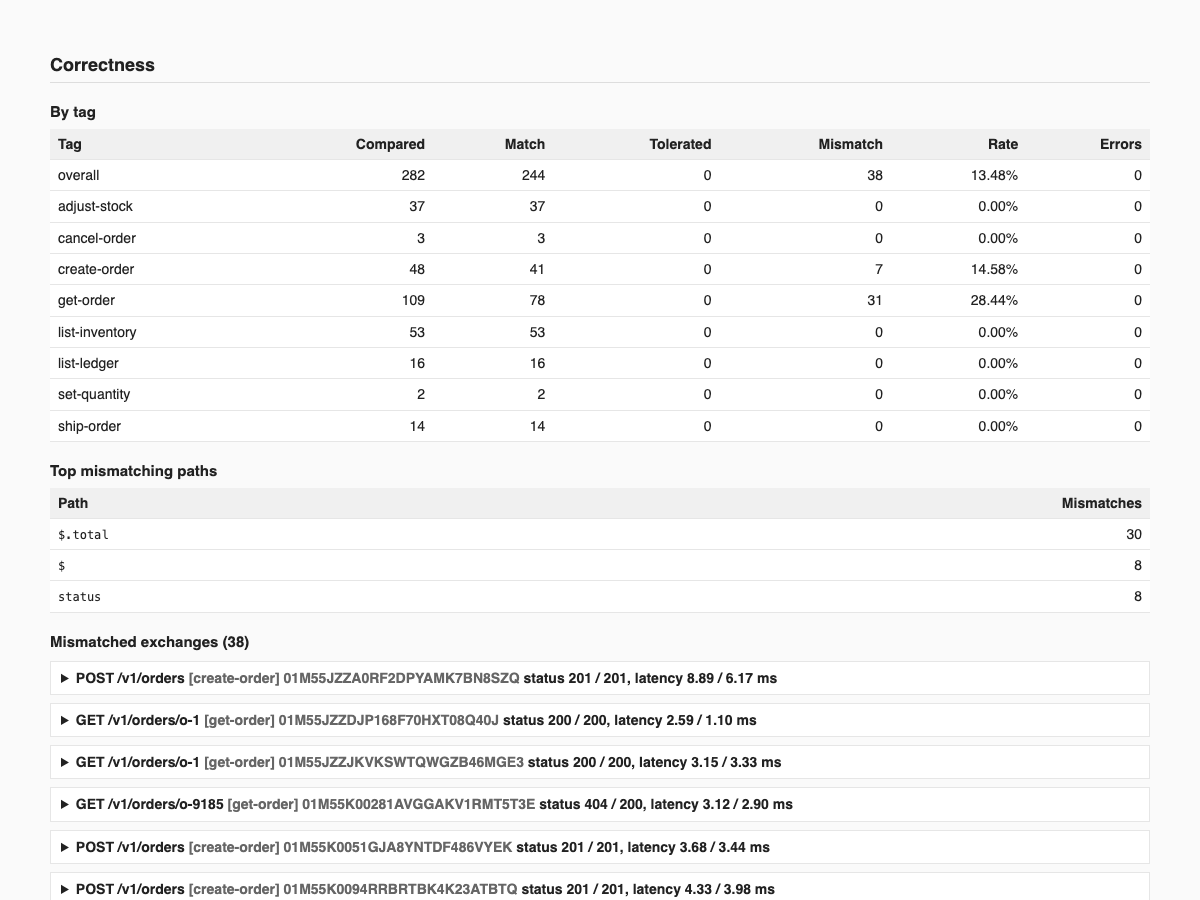
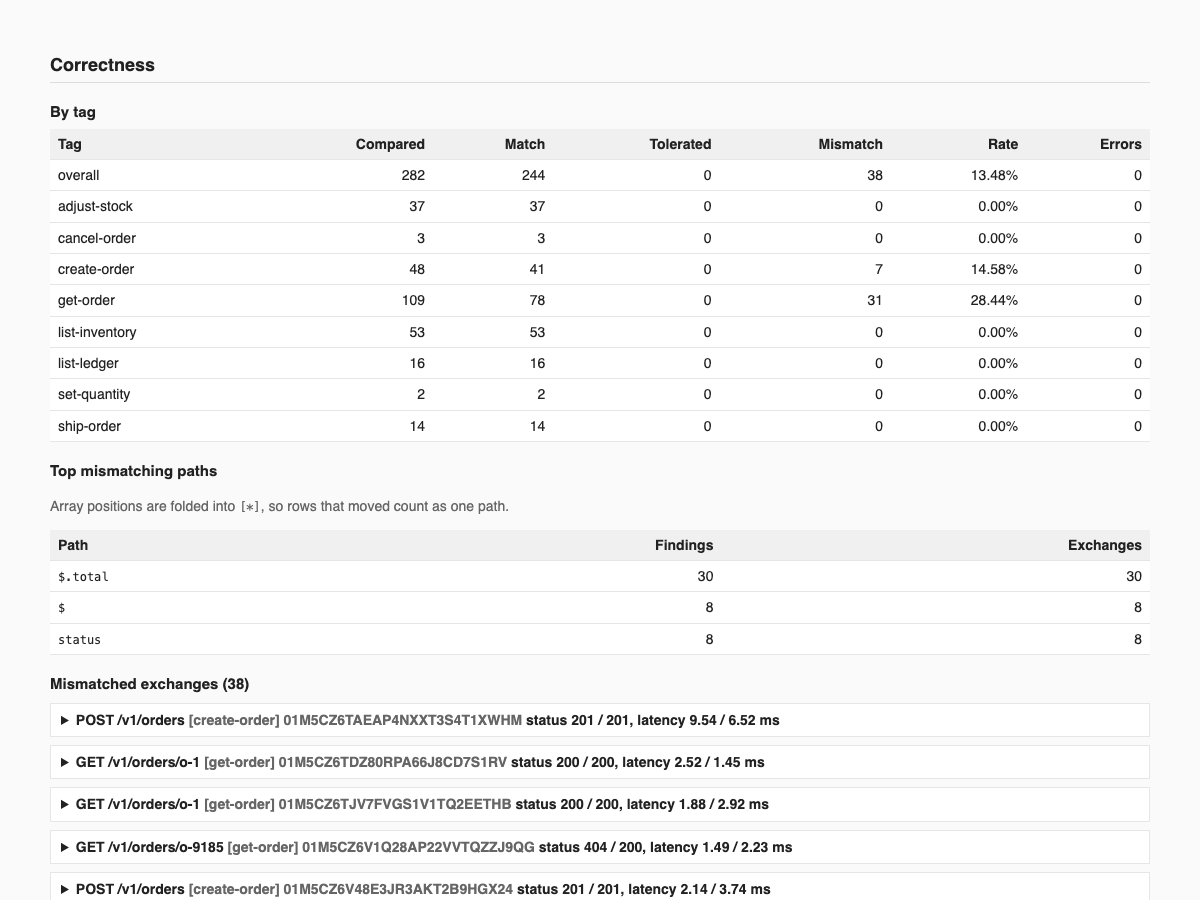
docs: refresh the demo run, the agent transcript, and the screenshots
The transcript section shows the run after the deferred items: prompt caching
wrote 2823 tokens in round 1 and read them back in round 2, the model set
repeat to 50 on a stock adjustment on its own and caught the p99 tail, and the
second inventory case was folded into the first. The screenshots show the
grouped top paths table and the run count under the steps.

Claude-Session: https://claude.ai/code/session_01ERbsfuBHiqZvzpXS3SrLL6

diff --git a/docs/agent-loop.md b/docs/agent-loop.md
@@ -22,65 +22,69 @@ The round prompt puts the run summary, the request shapes, and the redacted head
 
 ## A real transcript
 
-From `make demo` on 2026-10-17, against the classic candidate with the four planted divergences, after the first replay. Model `claude-sonnet-5-5`, effort `medium`, two rounds, eight cases per round, two dollar budget. Prompt versions `system.md e08fe4717b9d` and `round.md adcf42890db5`. The full file is `demo/out/agent-transcript.json` after a run.
+From `make demo` on 2026-10-20, against the classic candidate with the four planted divergences, after the first replay. Model `claude-sonnet-5-5`, effort `medium`, two rounds, eight cases per round, two dollar budget. Prompt versions `system.md a67c9bf802c2` and `round.md 6be6f15093c7`. The full file is `demo/out/agent-transcript.json` after a run.
 
 ### Round 1
 
-The round prompt was 4270 characters. Its summary began like this.
+The round prompt was 4269 characters. Its summary began like this.
 
 ```
+## Run summary
+
 Verdict: fail.
-Threshold rows that did not pass: latency.by_tag.adjust-stock.p99_ms (fail, limit 40, measured 73.343); correctness.mismatch_rate_max (fail, limit 0, measured 0.321555); ...
+Threshold rows that did not pass: latency.by_tag.adjust-stock.p99_ms (fail, limit 40, measured 66.879); correctness.mismatch_rate_max (fail, limit 0, measured 0.322695); ...
 Mismatches by tag: create-order: 7 of 48 mismatch, 0 errors; get-order: 31 of 109 mismatch, 0 errors; list-inventory: 53 of 53 mismatch, 0 errors.
 Mismatching paths: $.items[*].name (530), $.items[*].sku (530), $.items[*].unit_price (530), $.items[*].on_hand (499), $.total (30), status (8), $ (8).
 Sample of mismatched exchanges:
 - POST /v1/orders [create-order] status 201 vs 201: $.total 29.99 vs 29.98
+- GET /v1/orders/o-1 [get-order] status 200 vs 200: $.total 29.99 vs 29.98
 - GET /v1/inventory [list-inventory] status 200 vs 200: $.items[0].name "Hex bolt M8" vs "Bracket L"; $.items[0].on_hand 497 vs 500; $.items[0].sku "A-100" vs "C-300"
-- GET /v1/orders/o-9185 [get-order] status 404 vs 200: status 404 vs 200; $ {"error":"not_found"} vs absent
 ```
 
-The model answered with eight cases. 2710 input tokens, 1037 output tokens, $0.0158.
+The model answered with eight cases. 54 fresh input tokens, 2823 tokens written to the cache, 1130 output tokens, $0.0185.
 
-| Case | Tag            | Hypothesis                                                                                                                                | Steps                                                                    | Result                                     |
-| ---- | -------------- | ----------------------------------------------------------------------------------------------------------------------------------------- | ------------------------------------------------------------------------ | ------------------------------------------ |
-| 1-1  | create-order   | Order total differs by a cent due to rounding; a quantity of 3 of A-100 likely exposes a different rounding or price calculation.         | `POST /v1/orders {"sku":"A-100","qty":3}`                                | kept: `$.total` 29.99 against 29.98        |
-| 1-2  | create-order   | Quantity 1 gives the unit price total directly, showing whether the mismatch comes from the price itself or from multiplication rounding. | `POST /v1/orders {"sku":"A-100","qty":1}`                                | no difference                              |
-| 1-3  | create-order   | A large quantity amplifies the rounding or float multiplication difference in total.                                                      | `POST /v1/orders {"sku":"A-100","qty":1000}`                             | no difference                              |
-| 1-4  | get-order      | Fetching a just-created order shows whether the total differs at read time or only at creation.                                           | create B-200 x7, capture `oid`, then `GET /v1/orders/{{oid}}`            | no difference                              |
-| 1-5  | get-order      | A nonexistent order id returns 404 on one system and 200 on the other, as seen with o-9185.                                               | `GET /v1/orders/o-9185`                                                  | kept: status 404 against 200, body missing |
-| 1-6  | get-order      | A malformed order id may be handled differently.                                                                                          | `GET /v1/orders/does-not-exist`                                          | same key as 1-5                            |
-| 1-7  | list-inventory | Inventory listing order differs, so a plain list exposes different sort order and stock levels.                                           | `GET /v1/inventory`                                                      | kept: every row differs by position        |
-| 1-8  | list-inventory | Adjusting stock then listing inventory shows whether on_hand updates diverge after a mutation.                                            | `POST /v1/inventory/C-300/adjust {"delta":-5}`, then `GET /v1/inventory` | kept: the same rows plus `on_hand`         |
+| Case | Tag            | Hypothesis                                                                                                                           | Steps                                                                    | Result                                                       |
+| ---- | -------------- | ------------------------------------------------------------------------------------------------------------------------------------ | ------------------------------------------------------------------------ | ------------------------------------------------------------ |
+| 1-1  | create-order   | Total is off by one cent on the candidate, likely a rounding or float truncation difference; a fractional cent total will expose it. | `POST /v1/orders {"sku":"A-100","qty":3}`                                | kept: `$.total` 29.99 against 29.98                          |
+| 1-2  | create-order   | Total rounding differs on larger quantities, so qty 7 of a different sku shows a different cent error pattern.                       | `POST /v1/orders {"sku":"C-300","qty":7}`                                | no difference                                                |
+| 1-3  | get-order      | Reading back a created order returns a total that differs by a cent, showing the rounding is also applied on read or stored.         | create A-100 x1, capture `oid`, then `GET /v1/orders/{{oid}}`            | no difference                                                |
+| 1-4  | get-order      | A nonexistent order id returns 404 on the reference but the candidate returns 200, suggesting a differing existence check.           | `GET /v1/orders/o-999999`                                                | kept: status 404 against 200, body missing                   |
+| 1-5  | list-inventory | The inventory listing is ordered differently and on_hand differs, so the sort order or stock state diverges.                         | `GET /v1/inventory`                                                      | kept: every row differs by position, key `$.items[*]`        |
+| 1-6  | list-inventory | After a stock adjustment the listing's on_hand differs because the candidate applies adjustments differently or reads stale stock.   | `POST /v1/inventory/C-300/adjust {"delta":-5}`, then `GET /v1/inventory` | same key as 1-5                                              |
+| 1-7  | adjust-stock   | The adjust-stock endpoint has a latency tail on the candidate (p99 66 ms against a 40 ms limit), visible only over many repeats.     | `POST /v1/inventory/C-300/adjust {"delta":1}`, `repeat` 50               | kept: candidate p99 over 50 runs 71.49 ms, reference 0.98 ms |
+| 1-8  | create-order   | An unknown sku or an oversized quantity yields a different status or error body because validation differs.                          | `POST /v1/orders {"sku":"Z-999","qty":100000}`                           | no difference                                                |
 
 ### Round 2
 
-The round prompt grew to 6305 characters because it now listed the four kept cases. The model answered with eight cases. 3716 input tokens, 1094 output tokens, $0.0184. One case was dropped before execution because it carried an extra key, `note`, that the schema does not allow. None of the other seven revealed anything new, so the loop stopped with `no_new_cases`.
+The round prompt grew to 5023 characters because it now listed the four kept cases below the cache boundary. The model answered with eight cases. 347 fresh input tokens, 2823 tokens read from the cache, 1494 output tokens, $0.0162. None of the eight revealed anything new, so the loop stopped with `no_new_cases`.
 
-| Case | Tag          | Hypothesis                                                                                         | Steps                                               | Result                         |
-| ---- | ------------ | -------------------------------------------------------------------------------------------------- | --------------------------------------------------- | ------------------------------ |
-| 2-1  | cancel-order | Cancelling an existing order exposes differences in canceled_at, remaining and total fields.       | create, capture, cancel                             | no difference                  |
-| 2-2  | ship-order   | Shipping more than ordered quantity may be validated differently.                                  | create x2, capture, ship 5                          | no difference, both answer 409 |
-| 2-3  | create-order | Ordering a quantity of 1 of a different SKU may reveal price calculation differences beyond A-100. | `POST /v1/orders {"sku":"C-300","qty":7}`           | no difference                  |
-| 2-4  | create-order | Ordering an unknown SKU may return different error status or body.                                 | `POST /v1/orders {"sku":"Z-999","qty":1}`           | no difference, both answer 404 |
-| 2-5  | create-order | Zero or negative quantity validation may differ between systems.                                   | `POST /v1/orders {"sku":"A-100","qty":0}`           | no difference, both answer 400 |
-| 2-6  | set-quantity | Setting an order quantity to a large value may produce different 409 handling and totals.          | create, capture, set quantity 1000                  | no difference                  |
-| 2-7  | adjust-stock | Adjusting stock by a large negative delta may be allowed on one system and rejected on the other.  | `POST /v1/inventory/C-300/adjust {"delta":-100000}` | no difference, both answer 409 |
+| Case | Tag          | Hypothesis                                                                                                                     | Steps                                                   | Result          |
+| ---- | ------------ | ------------------------------------------------------------------------------------------------------------------------------ | ------------------------------------------------------- | --------------- |
+| 2-1  | cancel-order | Cancel may differ in total, remaining, or canceled fields, since totals already differ by a cent and cancel returns the order. | create A-100 x3, capture, cancel                        | same key as 1-1 |
+| 2-2  | ship-order   | Shipping more than the ordered quantity is validated differently or yields different remaining values.                         | create A-100 x2, capture, ship 5                        | no difference   |
+| 2-3  | set-quantity | Setting an order quantity to zero or a lower value is handled differently between systems.                                     | create B-200 x5, capture, set quantity 0                | no difference   |
+| 2-4  | create-order | Creating an order for a nonexistent SKU or with qty 0 returns a different status or error body.                                | `POST /v1/orders {"sku":"ZZ-999","qty":0}`              | no difference   |
+| 2-5  | list-ledger  | Ledger receivables likely reflect the rounding difference and stock_on_hand differs after an order is created.                 | create C-300 x7, then `GET /v1/ledger`                  | no difference   |
+| 2-6  | adjust-stock | Adjusting stock with a large negative delta or on an unknown SKU is validated differently.                                     | `POST /v1/inventory/C-300/adjust {"delta":-100000}`     | no difference   |
+| 2-7  | get-order    | Shipping a created order partially then reading it shows differing shipped, remaining, or status values.                       | create A-100 x4, capture, ship 1, then `GET /v1/orders` | no difference   |
+| 2-8  | create-order | A large quantity order produces a different total due to float rounding at scale.                                              | `POST /v1/orders {"sku":"B-200","qty":999}`             | no difference   |
 
-Totals: 16 proposed, 15 valid, 15 executed, 4 kept, 6426 input tokens, 2131 output tokens, $0.0342 of $2.00.
+Totals: 16 proposed, 16 valid, 16 executed, 4 kept, 401 fresh input tokens, 2823 tokens written to the cache and 2823 read back, 2624 output tokens, $0.0347 of $2.00.
 
 ## What the agent is good at
 
 - It turns a mismatching path into a one request reproduction. The three divergences that a single request can reach, the half cent rounding, the unknown id, and the inventory ordering, were each reproduced in the first round by a case the model wrote from the summary alone.
+- It uses `repeat` where it belongs. Told that latency limits are judged on the percentiles of a sample, it set `repeat` to 50 on the one tag whose p99 row had failed, left it at 1 everywhere else, and the case caught a p99 of 71.49 ms against the 40 ms limit, which no single run could show.
 - It writes multi step cases correctly. Every create then act sequence captured the order id and reused it, and the per system resolution of captures kept the two ids out of the diff.
 - It explores validation edges that the recording never exercised: zero quantity, unknown SKU, over shipment, an oversize negative adjustment. In this demo the two systems agree on all of them, which is itself information.
 - It is cheap. Two rounds cost three and a half cents and took a few seconds beyond the model's own latency.
 
 ## Where it is noisy
 
-- It cannot reach the latency divergence. The candidate delays five percent of `adjust-stock` calls, so a single request has one chance in twenty to breach, and the model's adjust cases were about validation rather than timing. A latency case needs volume, which the replay provides and the agent does not.
-- The dedupe key was once the exact set of paths, so cases 1-7 and 1-8 in the run above, which both show the inventory ordering divergence on different fields of the same rows, were both kept. The key now folds array positions and cuts a path inside an array at the row, so the second of two such cases is dropped as the same finding.
-- The agent's own cases mutate both systems. A stock adjustment or a create in one case changes what the next case sees, and the two systems drift apart when a case lands differently on them. In this run the inventory read in case 1-8 showed `on_hand` 508 against 503 for the SKU an earlier case had adjusted. Stateful side effects are the price of exploring mutations, and the report labels every kept case with the round it ran in.
-- Hypotheses are plausible but not grounded. The model wrote that the candidate "truncates rather than rounds" and that the two systems might "go negative" on stock. Neither is true. The harness keeps only what actually differed, so a wrong hypothesis costs one request and nothing else.
+- Volume costs time and stops at 50. The 50 run case sent fifty requests to each system one after another. A tail that fires on one call in a thousand needs more runs than the cap allows, and the replay, with hundreds of recorded calls per tag, remains the better instrument for that.
+- The dedupe key folds array positions and cuts a path inside an array at the row. Case 1-6, a stock adjustment followed by a listing, was dropped as the same finding as 1-5 for that reason, where the first real run, before the fold, kept both. The other side of that coin is that a divergence on one field of the rows, such as a per row price, would merge with an ordering divergence on the same array.
+- The agent's own cases mutate both systems. A stock adjustment or a create in one case changes what the next case sees, and the two systems drift apart when a case lands differently on them. In this run cases 1-6 and 1-7 adjusted the stock of C-300 fifty one times on each system before case 2-5 read the ledger, and the ledger still matched only because every case had landed the same way on both systems. Stateful side effects are the price of exploring mutations, and the report labels every kept case with the round it ran in.
+- Hypotheses are plausible but not grounded. The model wrote that the candidate might have a "float truncation difference" and might "read stale stock". Neither is what the candidate does. The harness keeps only what actually differed, so a wrong hypothesis costs one request and nothing else.
 - The schema is strict on purpose. A case with an extra key is dropped rather than repaired, and the drop and its reason are in the transcript.
 - Order ids line up here because both systems took the same traffic first. Against two systems in different states a single step create differs on `$.order_id` as well, and the mismatch key carries that path. The substitution rules handle this for replays and the capture mechanism handles it inside multi step cases, but a single step case has nothing to substitute.
 

diff --git a/CHANGELOG.md b/CHANGELOG.md
@@ -12,6 +12,7 @@ All notable changes to this repository are recorded here. The format follows Kee
 - Agent dedupe granularity. A mismatch now keys on the untolerated paths with array positions folded into `[*]` and a path inside an array cut at the row, so a divergence that moves rows around counts once however many fields differ or rows it touches, while two top level fields stay two findings. Cases 1-7 and 1-8 of the first real run would merge under this key. The system prompt tells the model the same rule.
 - Prompt caching. The round prompt now puts everything that changes between rounds, the kept cases and the round line, under the `## Cases already kept` heading, so the run summary, the request shapes, and the redacted header names above it are identical across the rounds of one loop. `ModelRequest` gains `cachePrefixLength`, the length of that stable prefix, and the Anthropic client sends the system prompt and the stable prefix as text blocks with `cache_control: ephemeral` breakpoints. Rounds after the first read the stable part from the cache at one tenth of the input price once it is long enough to cache. The log line per round shows the tokens read from and written to the cache, which the transcript and the run already record. Tests check the request shape with and without a prefix, that no round placeholder sits above the heading, and that the prefix is byte for byte identical between two rounds of the loop.
 - Latency cases carry volume. A generated case may set `repeat` from 1 to 50 (default 1). The harness then runs the whole case that many times on each system, one run after another, keeps the first run's responses for the diff, and summarizes the final step latencies of every run by exact nearest rank percentiles, a new `exactSummary` in core. The latency limits are judged on those percentiles, so a breach reads `candidate p90 over 10 runs was 41.3 ms, over the adjust-stock p90_ms limit of 20 ms`, and a single run is still its own every percentile. A kept case records `repeat` and `latency` with both sides' summaries. The system prompt describes the field and says to use it only for a latency hypothesis. The report lists the run count under the steps. Tests cover the percentile helper, the breach selection on a sample, schema bounds for `repeat`, and a loop against two stand in servers where the single run case shows nothing and the ten run case catches a delay that fires on every second call.
+- Verification after the six items. `make check` passes with 49 test files and 390 tests, one skipped without `REDIS_URL`, and CI runs that one too. `make demo` on this machine took 1 minute 37 seconds with the agent and produced the same verdicts as before: the classic candidate fails on the four divergences, the unordered rules tolerate the ordering, the clean pair passes with ten invariants holding on both sides, and the seeded defect fails on invariants 1, 5, and 6 with a four step reduced reproduction in 13 attempts. The correctness section now shows the inventory divergence as four grouped rows (`$.items[*].name`, `sku`, `unit_price`, and `on_hand`, 530 or 499 findings in 53 exchanges each) instead of hundreds of indexed paths. The real agent run with `claude-sonnet-5-5`: 16 proposed, 16 valid, 16 executed, 4 kept, stopped on `no_new_cases`, $0.0347 of $2.00. Round 1 wrote 2823 tokens to the cache and round 2 read all 2823 back, paying for 347 fresh input tokens. The model set `repeat` to 50 on a stock adjustment without being asked to and the case caught the candidate's p99 of 71.49 ms against the 40 ms limit, a finding no single run could show. Its second inventory case was dropped as the same finding under the folded key, where the first run kept two. The transcript is in `docs/agent-loop.md` and the screenshots in `docs/images` are regenerated.
 
 ### Step 9: docs, README, CI, and the OMS mapping (Addendum A5)
 

diff --git a/README.md b/README.md
@@ -60,7 +60,7 @@ The candidate service is derived from the reference and differs only at marked l
 
 ## The agent
 
-`rp agent` summarizes the run and the recording's request shapes, asks a model for new cases as JSON, validates them, sends each to the reference and the candidate, and keeps the ones that reveal a mismatch path set or a latency breach no kept case already reveals. It stops when a round adds nothing, when the next call could cross the budget, or at the round limit, and it prints the tokens and dollars it spent. In the demo run it reproduced the rounding, the unknown id, and the ordering divergences from the summary alone in the first round, for three and a half cents over two rounds. `docs/agent-loop.md` explains the loop, shows the real transcript, and says where the agent is noisy. Without a key the command prints a message and exits 0.
+`rp agent` summarizes the run and the recording's request shapes, asks a model for new cases as JSON, validates them, sends each to the reference and the candidate, and keeps the ones that reveal a mismatch path set or a latency breach no kept case already reveals. It stops when a round adds nothing, when the next call could cross the budget, or at the round limit, and it prints the tokens and dollars it spent. In the demo run it reproduced the rounding, the unknown id, and the ordering divergences from the summary alone in the first round, and on its own set `repeat` to 50 on a stock adjustment to show the candidate's p99 tail, for three and a half cents over two rounds with the second round read from the prompt cache. `docs/agent-loop.md` explains the loop, shows the real transcript, and says where the agent is noisy. Without a key the command prints a message and exits 0.
 
 ## Measured
 
@@ -70,7 +70,7 @@ Apple M4 Max, 16 cores, 64 GB, Docker Desktop 29.4.1 with a linux/aarch64 engine
 | ----------------- | -------------------- | ------------------------------------------------------------------------------------------------------------------------------------------------------------------------------------------------------------------------------------------------------------------------------------------ |
 | Capture overhead  | `make bench-capture` | p50 0.26 to 0.31 ms direct against 0.54 to 0.59 ms through the proxy: 0.28 ms of overhead at p50 and 1.06 ms at p99, over 5000 requests at concurrency 8 after 500 warmup, two passes each.                                                                                                |
 | Replay throughput | `make bench-replay`  | 2600 to 3200 requests per second against the clean candidate at `max` pacing and concurrency 8 over the committed recording, with zero mismatches. The recording is sequential and the engine keeps that order, so the rate is bounded by the candidate's latency rather than by the pool. |
-| Demo wall time    | `make demo`          | 1 minute 25 seconds without the agent and 1 minute 39 seconds with it, images already built.                                                                                                                                                                                               |
+| Demo wall time    | `make demo`          | 1 minute 25 seconds without the agent and 1 minute 37 seconds with it, images already built.                                                                                                                                                                                               |
 
 ## Design notes
 

diff --git a/demo/README.md b/demo/README.md
@@ -65,7 +65,7 @@ The third replay targets a candidate with one of the four seeded defects enabled
 
 ## The agent
 
-With `ANTHROPIC_API_KEY` set, `make demo` runs `rp agent` for two rounds against the classic candidate after the first replay and renders `report.html` again with the agent section. The model receives the run summary, one request shape per tag, and the kept cases, and answers with new cases. Each case is sent to both systems and kept when it reveals a mismatch path set or a latency breach that no kept case already reveals. The transcript lands in `demo/out/agent-transcript.json`. `docs/agent-loop.md` explains the loop and shows a real transcript.
+With `ANTHROPIC_API_KEY` set, `make demo` runs `rp agent` for two rounds against the classic candidate after the first replay and renders `report.html` again with the agent section. The model receives the run summary, one request shape per tag, and the kept cases, and answers with new cases. Each case is sent to both systems, as many times as its `repeat` says, and kept when it reveals a mismatch path set or a latency breach that no kept case already reveals. The transcript lands in `demo/out/agent-transcript.json`. `docs/agent-loop.md` explains the loop and shows a real transcript.
 
 ![Agent section with the kept cases](../docs/images/report-agent.png)
 
